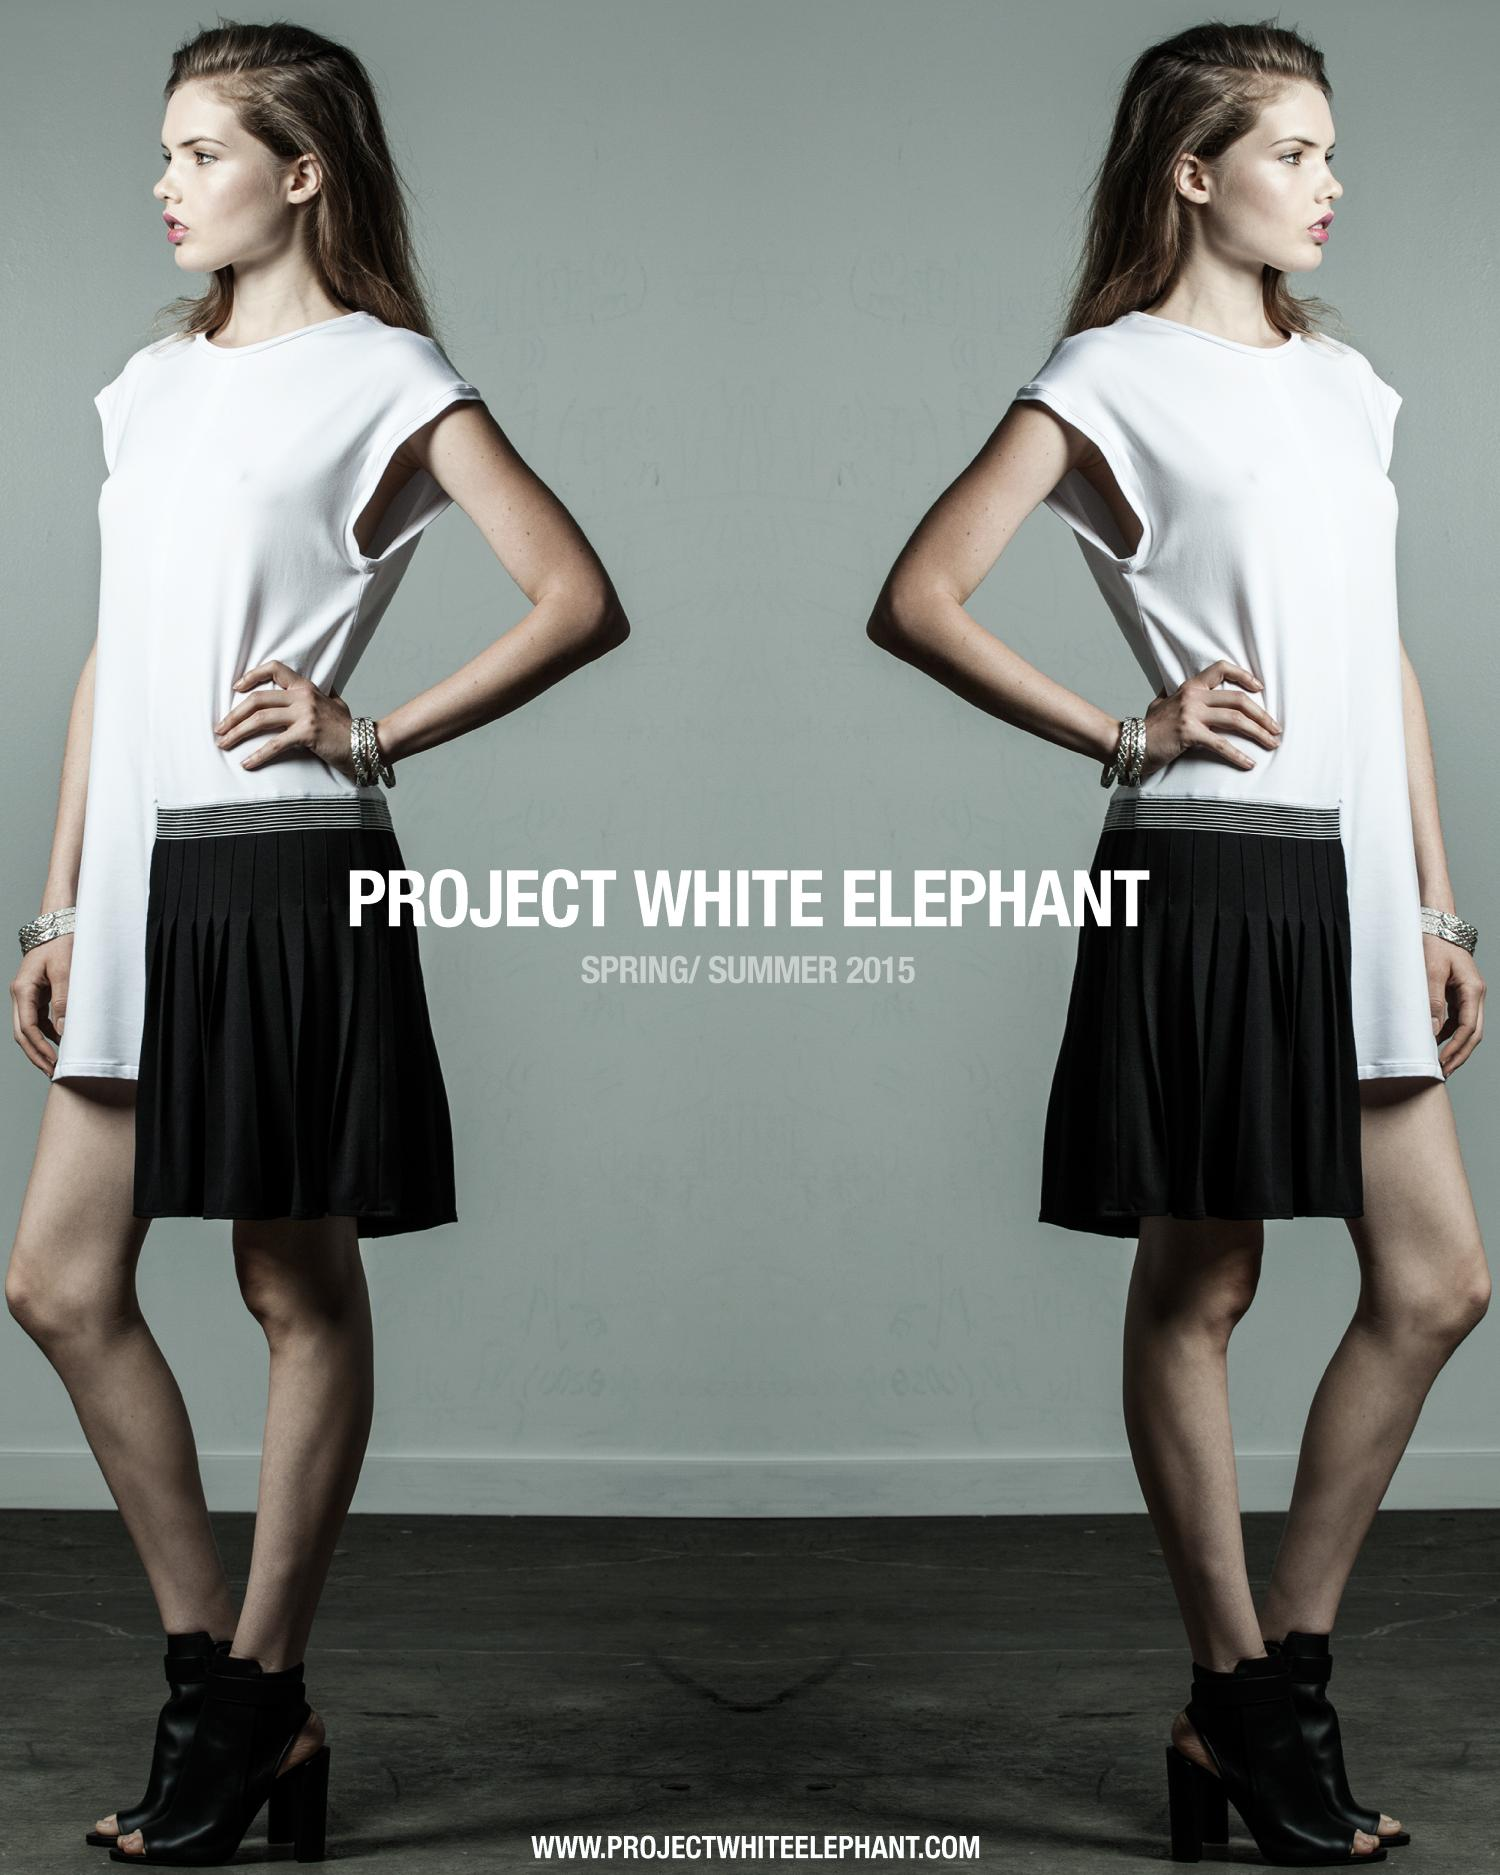
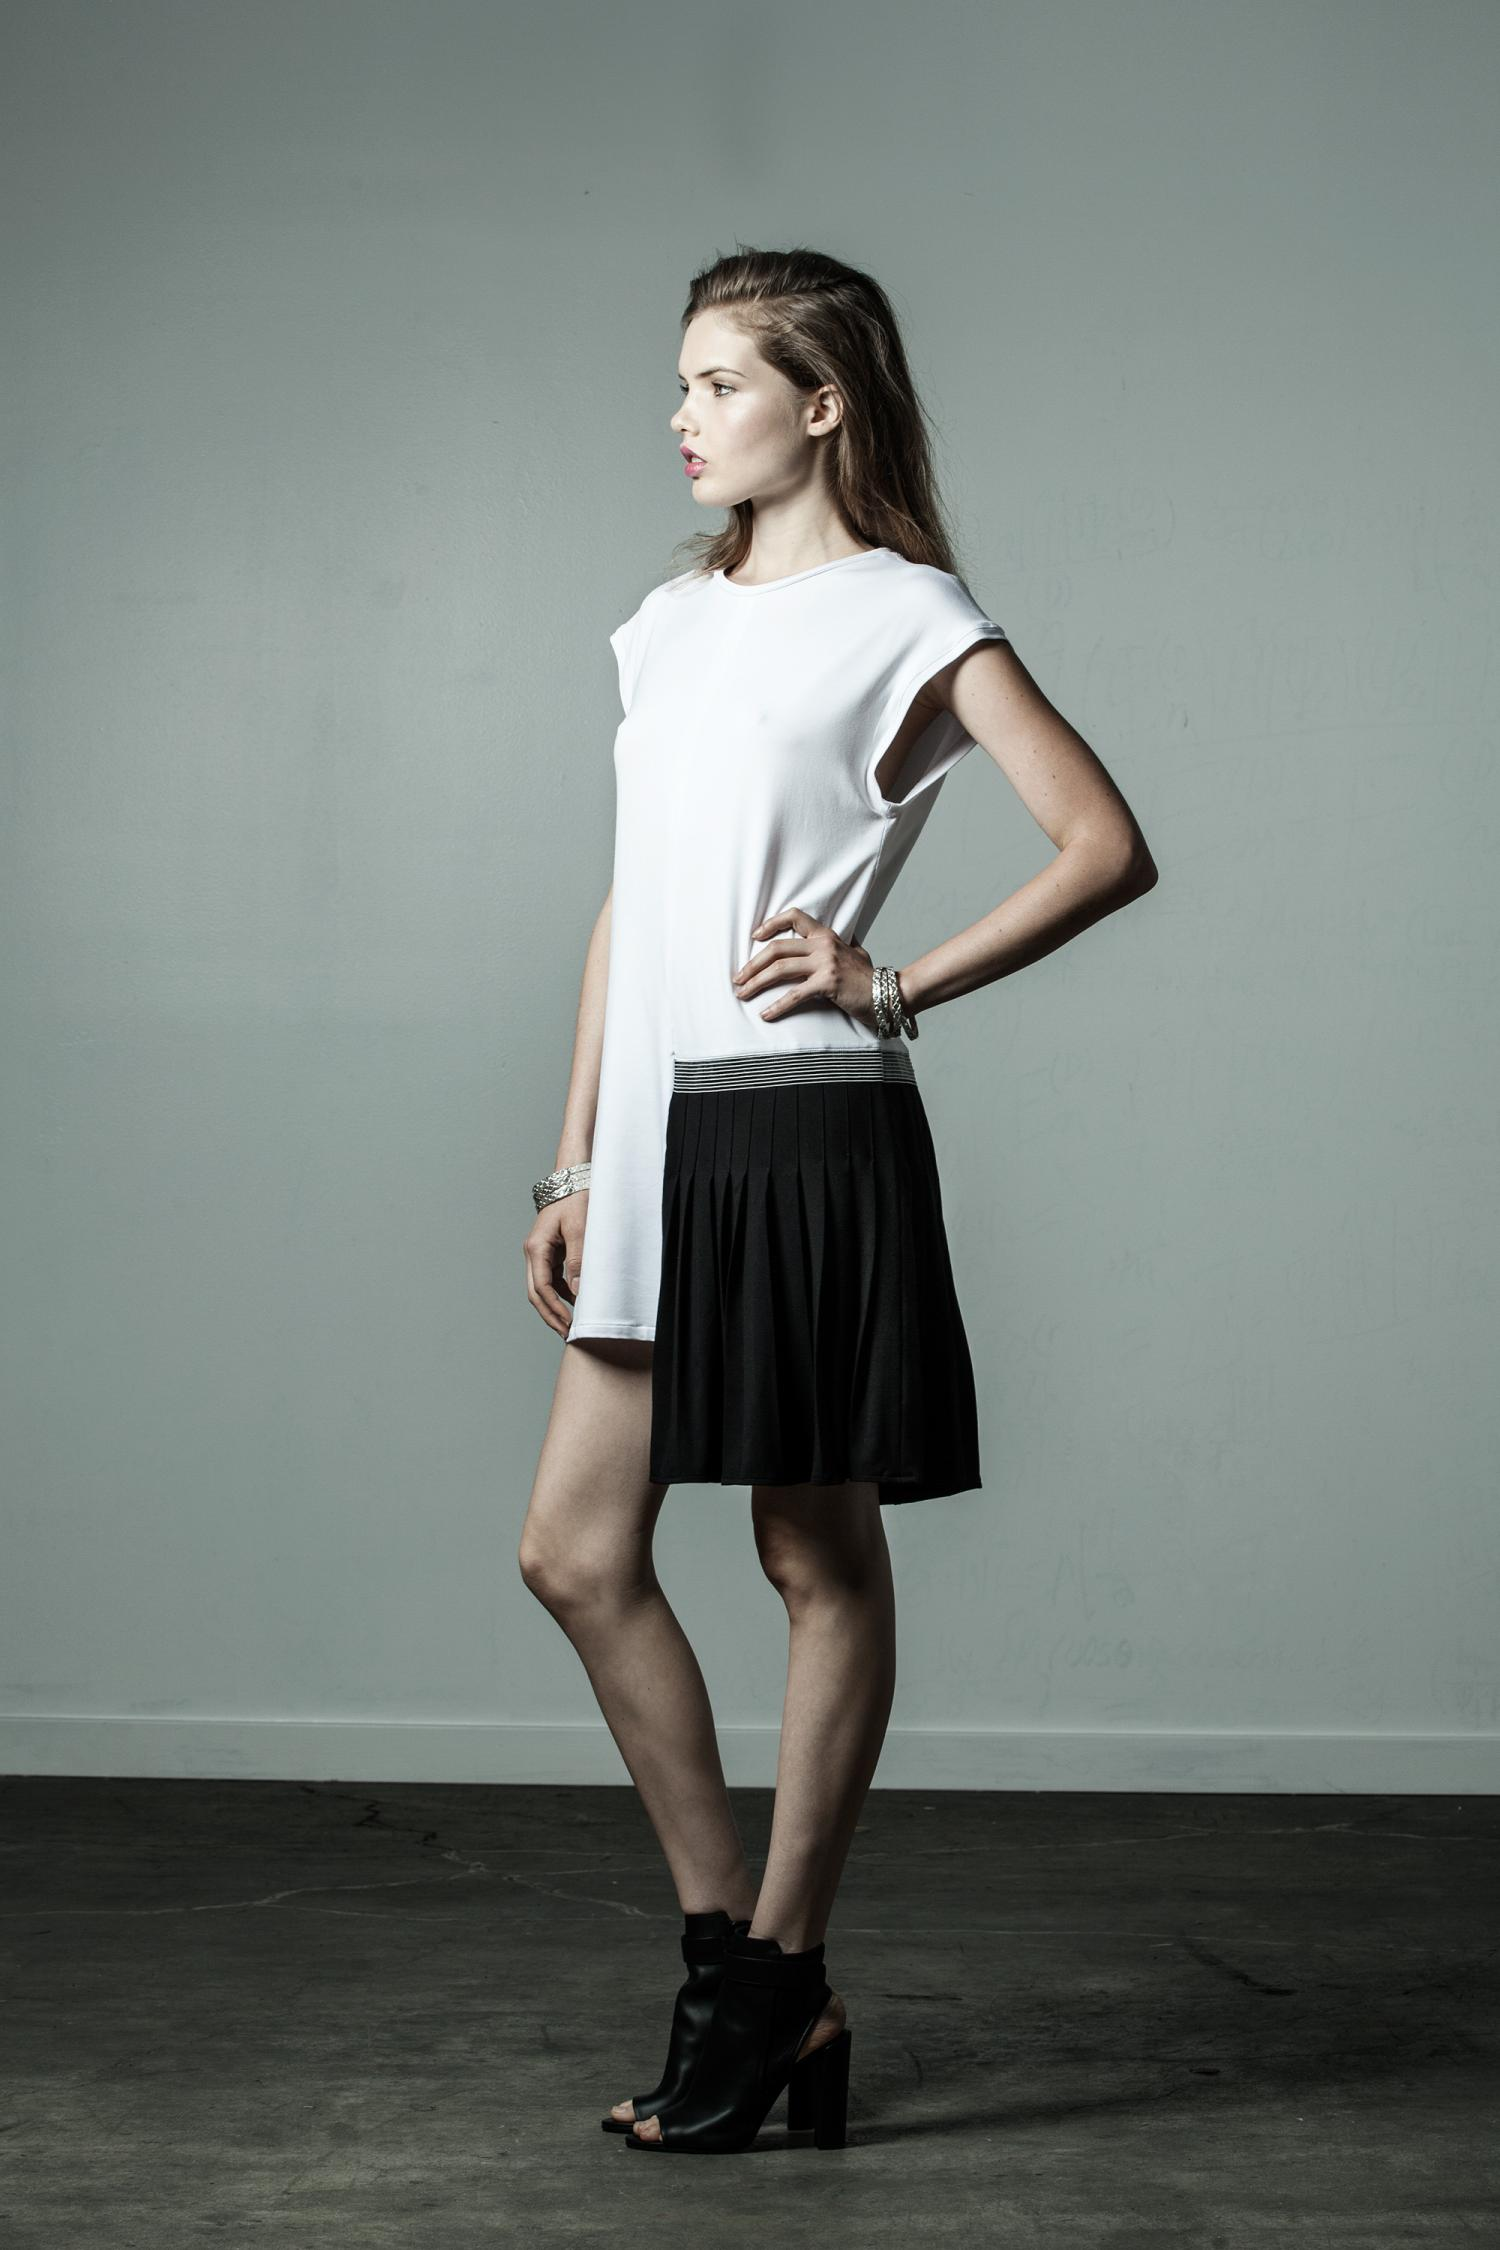
add bg sans text

diff --git a/gulp/tasks/styles/styl.js b/gulp/tasks/styles/styl.js
@@ -34,8 +34,12 @@ gulp.task('styl', function(){
      errorHandler: onError
    }))
    .pipe($.changed(config.dest))
-   .pipe($.sourcemaps.init())
    .pipe($.stylus({
+     sourcemap: {
+       inline: true,
+       sourceRoot: '..',
+       basePath: 'css'
+     },
      'include css': true,
      use:[
        axis(),
@@ -44,8 +48,14 @@ gulp.task('styl', function(){
        autoprefixer({ browsers: AUTOPREFIXER_BROWSERS})
      ]
    }))
+   .pipe($.sourcemaps.init({
+     loadMaps: true
+   }))
+   .pipe($.sourcemaps.write('.', {
+     includeContent: false,
+     sourceRoot: '.'
+   }))
    .on('error', handleErrors)
-   .pipe($.sourcemaps.write())
    .pipe(gulp.dest(config.dest))
    .pipe($.size({title: 'Stylus'}))
    // stream css changes

diff --git a/gulp/tasks/html/minify-html.js b/gulp/tasks/html/minify-html.js
@@ -7,15 +7,14 @@
 var gulp = require('gulp');
 var $ = require('gulp-load-plugins')();
 var onError = require('../../util/onError');
-var config = require('../../config').html;
+var config = require('../../config').minify.html;
 
 gulp.task('minify-html', function() {
   return gulp.src(config.src)
     .pipe($.plumber({
       errorHandler: onError
     }))
-    .pipe($.jade())
     .pipe($.minifyHtml())
     .pipe(gulp.dest(config.dest))
-    .pipe($.size({title: 'HTML'}));
+    .pipe($.size({title: 'Minify HTML'}));
 });

diff --git a/gulp/tasks/images/images.js b/gulp/tasks/images/images.js
@@ -6,6 +6,7 @@
 
 var gulp       = require('gulp');
 var $ = require('gulp-load-plugins')();
+var jpegtran = require('imagemin-jpegtran');
 var onError = require('../../util/onError');
 var config = require('../../config').images;
 
@@ -19,7 +20,7 @@ gulp.task('images', function() {
     // Optimize
     .pipe($.cache($.imagemin({
       progressive: true,
-      interlaced: true
+      use: [jpegtran()]
     })))
     .pipe(gulp.dest(config.dest))
     .pipe($.size({title: 'Images'}));

diff --git a/gulp/config.js b/gulp/config.js
@@ -76,6 +76,10 @@ module.exports = {
       dest: dist,
       outputName: 'main.min.js'
     },
+    html: {
+      src: dest + "/index.html",
+      dest: dist
+    },
     css: {
       //src: dest + "/main_filtered.css",
       src: dest + "/main.css",
